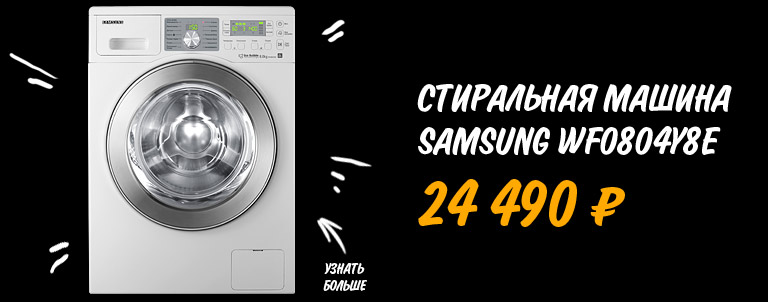
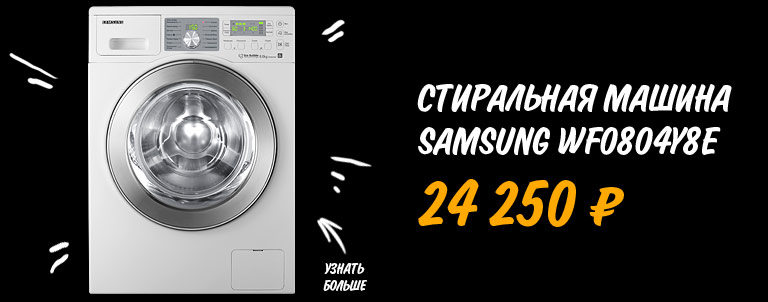
Изменена ссылка на группу в FB, обновлен баннер для стиральной машины, убиты ссылки на несуществующие картинки (страница изменения пароля)

Changed region(s): [[0.625, 0.596, 0.8125, 0.745]]

diff --git a/apps/main/templates/info.php b/apps/main/templates/info.php
@@ -7,7 +7,7 @@
     <link rel="shortcut icon" href="/favicon.ico" />
     <?php include_stylesheets() ?>
     <?php include_javascripts() ?>
-    <?php include_component('page', 'link_rel_canonical') ?>        
+    <?php include_component('page', 'link_rel_canonical') ?>
 <script type="text/javascript">
 var _gaq = _gaq || [];
 _gaq.push(['_setAccount', 'UA-25485956-1']);
@@ -44,18 +44,18 @@ _gaq.push(['_trackPageLoadTime']);
           <div class="region">
             Регион: <?php include_partial('default/region') ?>
           </div>
-          <noindex>  
+          <noindex>
               <div class="usermenu">
                 <div class="point"><a href="<?php echo url_for('default_show', array('page' => 'f1',)) ?>" class="f1">F1 сервис</a></div>
                 <div class="point"><?php include_partial('default/user') ?></div>
                 <div class="point next"><a href="<?php echo url_for('default_show', array('page' => 'how_make_order',)) ?>">Помощь покупателю</a></div>
               </div>
-          </noindex>    
+          </noindex>
         </div>
         <!-- /Topbar -->
         <!-- Header -->
         <div class="header">
-         <?php LastModifiedHandler::setLastModified();  ?>   
+         <?php LastModifiedHandler::setLastModified();  ?>
           <?php include_partial('default/logo') ?>
           <!-- Topmenu -->
           <?php include_component('productCategory', 'root_list') ?>
@@ -82,11 +82,11 @@ _gaq.push(['_trackPageLoadTime']);
             <h1><?php include_slot('title') ?></h1>
           <?php endif ?>
 
-          <noindex>  
+          <noindex>
               <div class="searchbox">
                 <?php include_component('search', 'form') ?>
               </div>
-          </noindex>    
+          </noindex>
           <div class="clear pb20"></div>
           <div class="line"></div>
         </div>
@@ -127,7 +127,7 @@ _gaq.push(['_trackPageLoadTime']);
         <div class="dropbox" style="left:517px; display:none;">
           <p>Перетащите сюда</p>
         </div-->
-        <div class="dropbox" style="left:703px; display:none;">
+        <div class="dropbox" style="left:733px; display:none;">
           <p>Перетащите сюда</p>
         </div>
         <!-- Flybox -->
@@ -139,38 +139,6 @@ _gaq.push(['_trackPageLoadTime']);
         </ul>
       </div>
     </div>
-    <div id="zaglu" style="display:none"><!-- AJAX emulation zaglushka-->
-      <ul class="comparisonblock">
-        <li>
-          <div class="photo"><b class="delete" title="Удалить"></b><a href=""><img src="images/photo34.jpg" alt="" width="120" height="120" /></a></div>
-          <a href="">Смартфон Samsung Galaxy S II (GT-I9100 )16 Гб</a> <strong>64 543 <span class="rubl">p</span></strong>
-        </li>
-        <li>
-          <div class="photo"><b class="delete" title="Удалить"></b><a href=""><img src="images/photo63.jpg" alt="" width="120" height="120" /></a></div>
-          <a href="">Смартфон HTC Wildfire S White 16 Гб</a> <strong>64 543 <span class="rubl">p</span></strong>
-        </li>
-        <li>
-          <div class="photo"><b class="delete" title="Удалить"></b><a href=""><img src="images/photo64.jpg" alt="" width="120" height="120" /></a></div>
-          <a href="">Смартфон HTC Sensation</a> <strong>64 543 <span class="rubl">p</span></strong>
-        </li>
-        <li>
-          <div class="comparphoto"></div>
-          <div class="gray ac">Товар для сравнения</div>
-        </li>
-      </ul>
-      <div class="fl form width230">
-        <div class="pb5">Товары, которые вы сравнивали в других разделах:</div>
-        <div class="selectbox selectbox225 mb70"><i></i>
-          <select class="styled" name="3">
-            <option value="1">Электроника</option>
-            <option value="2">Товары для дома</option>
-            <option value="3">Сделай сам (инструменты)</option>
-          </select>
-        </div>
-        <a href="" class="button bigbuttonlink" value="">Перейти в сравнение</a>
-      </div>
-    </div>
-
     <!-- /Lightbox -->
 
     <?php if (!include_slot('auth'))

diff --git a/apps/main/modules/default/actions/components.class.php b/apps/main/modules/default/actions/components.class.php
@@ -146,7 +146,7 @@ class defaultComponents extends myComponents
       ),
       array(
         'token' => 'facebook',
-        'url'   => 'http://www.facebook.com/groups/250713421639363/',
+        'url'   => 'http://www.facebook.com/enter.ru',
       ),
       array(
         'token' => 'vkontakte',
